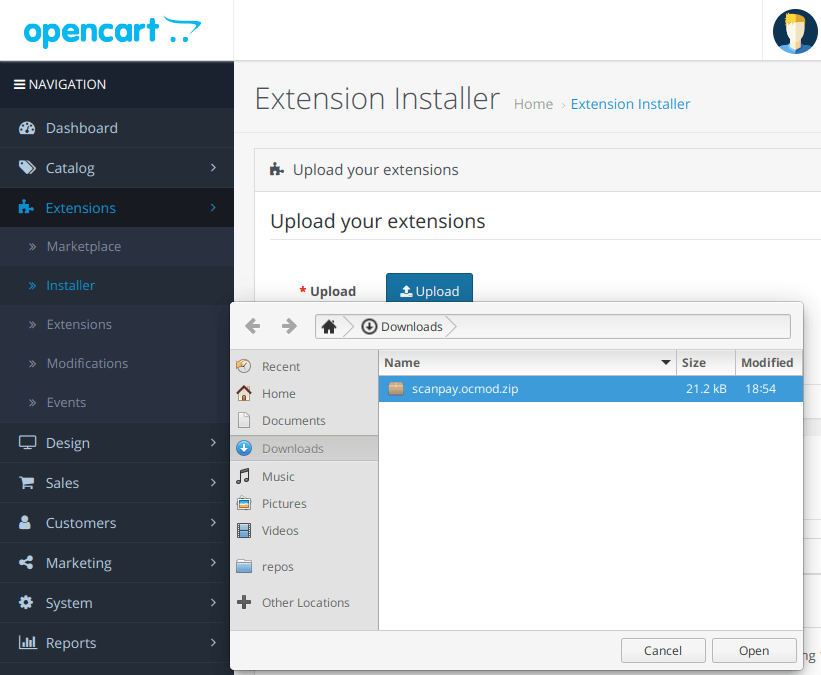
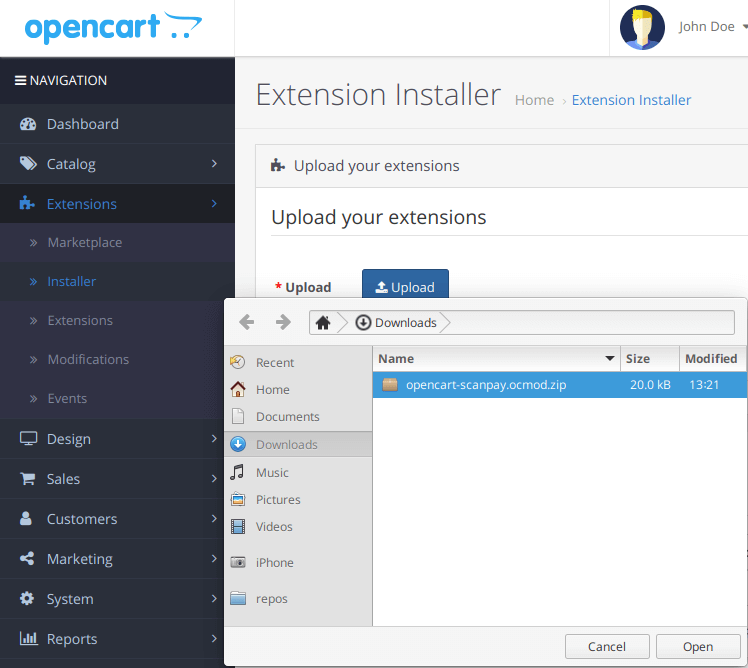
Opencart 3.0+ required, simplified instructions

diff --git a/src/ecommerce-modules.html b/src/ecommerce-modules.html
@@ -107,14 +107,13 @@
 
   {{ ah(2, "OpenCart", "") }}
   <div id="modules--opencart">
-    This module works for OpenCart version 2.3+ and 3.0+.
+    This module works for OpenCart version 3.0 or newer.
     <h4>Installation</h4>
-    <ol class="modules--ol">
-      <li>Download the OpenCart Scanpay extension <a href="https://github.com/scanpaydk/opencart-scanpay/archive/master.zip">here</a>.</li>
-      <li>Rename the file to "scanpay.ocmod.zip"</li>
+    <ol>
+      <li>Download the OpenCart Scanpay extension <a href="//github.com/scanpaydk/opencart-scanpay/releases/download/v0.1/opencart-scanpay.ocmod.zip">here</a>.</li>
       <li>Enter the admin and navigate to <code class="code">Extensions > Installer</code>.</li>
       <li>
-        Click "Upload" and select the file you just renamed (See below).
+        Click "Upload" and select the file you just downloaded (See below).
         <img class="picture" width="600" alt="Upload module to your OpenCart shop" src="/img/opencart/upload.png">
       </li>
       <li>Navigate to <code class="code">Extensions > Extensions</code> and change extension type to "Payments".</li>

diff --git a/src/css/docs.less b/src/css/docs.less
@@ -721,6 +721,12 @@ td {
     }
 }
 
+input[type=checkbox].modules--optional {
+    display:none;
+    &:not(:checked) + * {
+        display: none;
+    }
+}
 
 /*
     API Libraries :: /API-libraries
